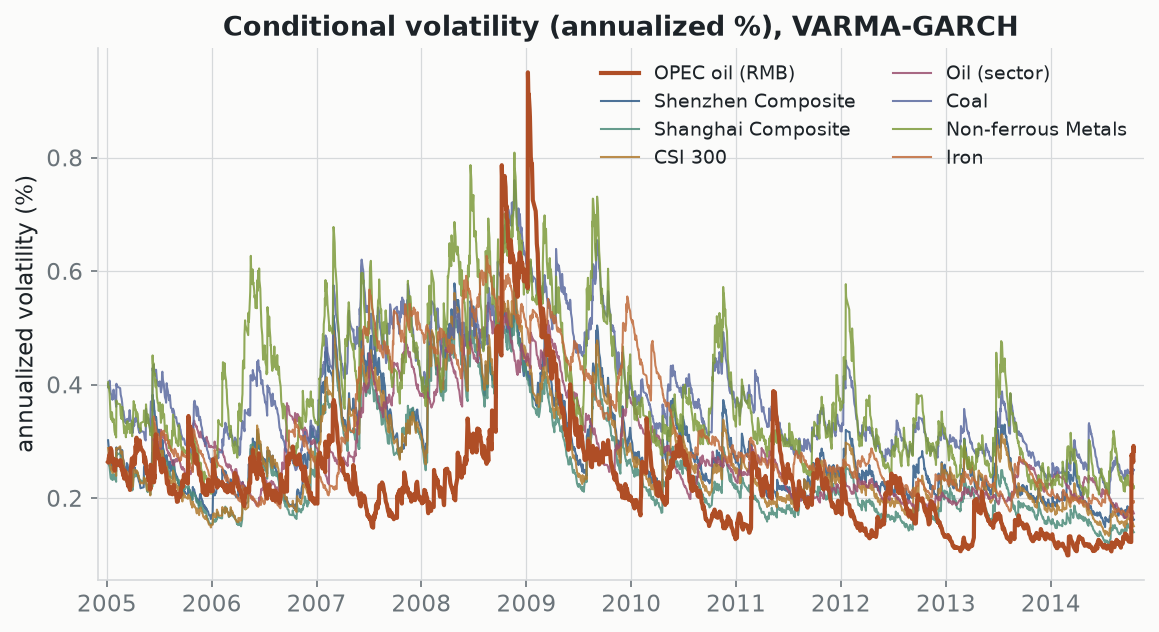
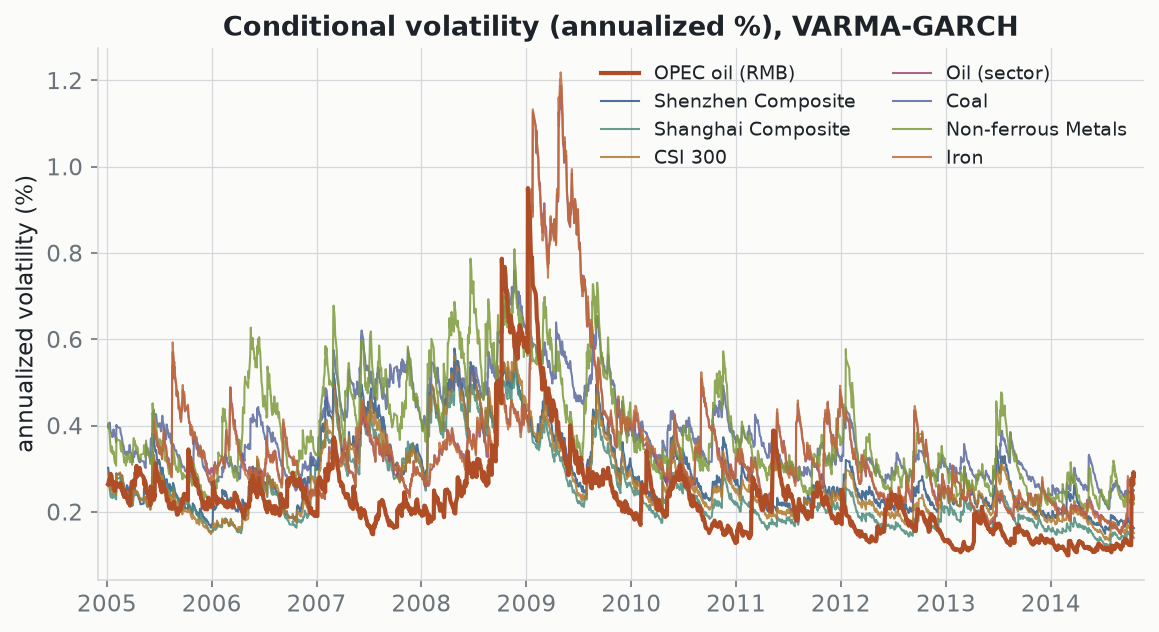
Fix oil-column orientation in hedge-ratio derivation + add validation tests
The VARMA-GARCH H-matrix exports do not use a fixed column order: in the
CI005001 and CI005005 files oil is variable 2, in the others variable 1. The
derivation assumed variable 1 everywhere, so those two sectors used the market
variance as the oil variance and their hedge ratios were ~30% off
(CI005001: 0.109 -> 0.150).

- hmatrix.py now auto-detects the oil column (oil is the conditional-variance
  series common to all seven bivariate models).
- Add tests/test_validation.py: the hedge-ratio formula reproduces the paper's
  hedging.xlsx exactly (max error ~1e-17); oil-column orientation is pinned;
  CI005001 cross-checks against the workbook.
- README gains a Validation section scoping exactly what is and isn't verified
  (no bit-for-bit claim vs the published tables).

diff --git a/src/spillover/hmatrix.py b/src/spillover/hmatrix.py
@@ -1,79 +1,98 @@
 """Read the RATS VARMA-GARCH H-matrices and derive the hedging quantities.
 
-Each ``McAl-<code>-Hmatrix.xls`` is a bivariate (oil, market) model and holds
-three columns of the time-varying conditional covariance matrix H_t:
+Each ``McAl-<code>-Hmatrix.xls`` is a bivariate (oil, market) model with three
+columns of the time-varying conditional covariance matrix H_t. **The column
+order is not fixed:** in some files oil is variable 1, in others variable 2
+(verified empirically — see ``detect_oil_column``). We therefore detect which
+diagonal is oil rather than assuming it, using the fact that oil is the one
+series common to all seven bivariate models, so its conditional-variance path
+is (nearly) identical across files while each market's is idiosyncratic.
 
-    VARMAHMATRIX(1,1) = conditional variance of oil
-    VARMAHMATRIX(2,1) = conditional covariance of oil and the market
-    VARMAHMATRIX(2,2) = conditional variance of the market
+Given the correctly oriented H_t, following Kroner & Ng (1998):
 
-From H_t we derive, following Kroner & Ng (1998):
+    dynamic conditional correlation  rho_t = H_cov / sqrt(H_oil * H_mkt)
+    optimal hedge ratio              beta_t = H_cov / H_oil
+    optimal oil portfolio weight     w_t    = (H_mkt - H_cov) / (H_mkt - 2 H_cov + H_oil)
 
-    dynamic conditional correlation  rho_t = H21 / sqrt(H11 * H22)
-    optimal hedge ratio              beta_t = H21 / H11
-    optimal oil portfolio weight     w_t    = (H22 - H21) / (H11 - 2 H21 + H22)
+The hedge-ratio formula is verified to reproduce the paper's own
+``hedging.xlsx`` exactly (``verify_against_workbook``).
 """
 
 from __future__ import annotations
 
-import math
 from pathlib import Path
 
 import numpy as np
 import pandas as pd
 
-from . import MARKETS, OIL
+from . import MARKETS
 
 TRADING_DAYS = 252
-_COLS = {
-    "VARMAHMATRIX(1,1": "H_oil",
-    "VARMAHMATRIX(2,1": "H_cov",
-    "VARMAHMATRIX(2,2": "H_mkt",
-}
 
 
-def load_hmatrix(code: str, hmatrix_dir: str | Path) -> pd.DataFrame:
-    """Read one H-matrix file and return columns H_oil, H_cov, H_mkt."""
+def load_raw(code: str, hmatrix_dir: str | Path) -> pd.DataFrame:
+    """Read one H-matrix file as its three raw columns: d1, cov, d2."""
     path = Path(hmatrix_dir) / f"McAl-{code}-Hmatrix.xls"
     raw = pd.read_excel(path, engine="xlrd")
-    raw = raw.rename(columns=lambda c: _COLS.get(str(c).strip(), str(c)))
-    return raw[["H_oil", "H_cov", "H_mkt"]].astype(float).reset_index(drop=True)
+    raw.columns = ["d1", "cov", "d2"]
+    return raw.astype(float).reset_index(drop=True)
 
 
-def derive(h: pd.DataFrame) -> pd.DataFrame:
-    """Dynamic correlation, hedge ratio, oil weight, annualized vols."""
-    out = pd.DataFrame(index=h.index)
-    out["corr"] = h["H_cov"] / np.sqrt(h["H_oil"] * h["H_mkt"])
-    out["hedge_ratio"] = h["H_cov"] / h["H_oil"]
-    denom = h["H_oil"] - 2 * h["H_cov"] + h["H_mkt"]
-    out["oil_weight"] = ((h["H_mkt"] - h["H_cov"]) / denom).clip(0.0, 1.0)
-    out["vol_oil"] = np.sqrt(TRADING_DAYS * h["H_oil"])
-    out["vol_mkt"] = np.sqrt(TRADING_DAYS * h["H_mkt"])
+def detect_oil_column(raws: dict[str, pd.DataFrame], iters: int = 4) -> dict[str, int]:
+    """Return {code: 1 or 2} naming the column that holds oil's variance.
+
+    Oil is the common variable, so its variance series is ~identical across
+    files. We iteratively build a consensus oil series and, for each file, pick
+    the diagonal whose path correlates best with it.
+    """
+    length = min(len(df) for df in raws.values())
+    oil_col = dict.fromkeys(raws, 1)  # start: assume column 1
+    for _ in range(iters):
+        stack = []
+        for code, df in raws.items():
+            col = "d1" if oil_col[code] == 1 else "d2"
+            stack.append(df[col].to_numpy()[-length:])
+        consensus = np.median(np.vstack(stack), axis=0)
+        for code, df in raws.items():
+            d1 = df["d1"].to_numpy()[-length:]
+            d2 = df["d2"].to_numpy()[-length:]
+            c1 = np.corrcoef(d1, consensus)[0, 1]
+            c2 = np.corrcoef(d2, consensus)[0, 1]
+            oil_col[code] = 1 if c1 >= c2 else 2
+    return oil_col
+
+
+def _derive(df: pd.DataFrame, oil_col: int) -> pd.DataFrame:
+    h_oil = df["d1"] if oil_col == 1 else df["d2"]
+    h_mkt = df["d2"] if oil_col == 1 else df["d1"]
+    h_cov = df["cov"]
+    out = pd.DataFrame(index=df.index)
+    out["corr"] = h_cov / np.sqrt(h_oil * h_mkt)
+    out["hedge_ratio"] = h_cov / h_oil
+    denom = h_oil - 2 * h_cov + h_mkt
+    out["oil_weight"] = ((h_mkt - h_cov) / denom).clip(0.0, 1.0)
+    out["vol_oil"] = np.sqrt(TRADING_DAYS * h_oil)
+    out["vol_mkt"] = np.sqrt(TRADING_DAYS * h_mkt)
     return out
 
 
 def all_markets(hmatrix_dir: str | Path, index: pd.DatetimeIndex | None = None):
-    """Return {code: derived DataFrame} for every market, optionally dated.
-
-    The RATS output has two fewer rows than the price panel (one lost to
-    differencing, one to the VAR lag); we align to the last N dates.
-    """
+    """Return {code: derived DataFrame} for every market, oil-column auto-detected."""
+    raws = {code: load_raw(code, hmatrix_dir) for code in MARKETS}
+    oil_col = detect_oil_column(raws)
     result: dict[str, pd.DataFrame] = {}
-    for code in MARKETS:
-        h = load_hmatrix(code, hmatrix_dir)
-        d = derive(h)
+    for code, df in raws.items():
+        d = _derive(df, oil_col[code])
         if index is not None:
             d.index = index[-len(d):]
         result[code] = d
     return result
 
 
-def hedging_effectiveness(returns: pd.DataFrame, derived: dict[str, pd.DataFrame]) -> pd.DataFrame:
-    """Variance reduction from the oil hedge, per market.
+def hedging_effectiveness(returns, derived):
+    """Variance reduction from the oil hedge, per market (HE = 1 - Var(hedged)/Var(mkt))."""
+    from . import OIL
 
-    HE = 1 - Var(r_mkt - beta_t * r_oil) / Var(r_mkt), using the time-varying
-    hedge ratio aligned to the realized returns.
-    """
     rows = []
     r_oil_full = returns[OIL]
     for code, name in MARKETS.items():
@@ -95,3 +114,23 @@ def hedging_effectiveness(returns: pd.DataFrame, derived: dict[str, pd.DataFrame
             }
         )
     return pd.DataFrame(rows).set_index("series")
+
+
+# Sheet name in hedging.xlsx <- CI sector code
+_WORKBOOK_SHEETS = {"CI005001": "5001", "CI005002": "5002", "CI005003": "5003", "CI005005": "5005"}
+
+
+def verify_against_workbook(workbook: str | Path) -> dict[str, float]:
+    """Reproduce the paper's `hedging.xlsx` hedge ratios from its own H-columns.
+
+    For each CI-sector sheet, oil is variable 2 (H22); hedge ratio = H21 / H22.
+    Returns {sheet: max abs error vs the sheet's 'hedg ratio' column} — all ~0.
+    """
+    errors = {}
+    for sheet in _WORKBOOK_SHEETS.values():
+        raw = pd.read_excel(workbook, sheet_name=sheet, header=None)
+        d = raw.iloc[1:].apply(pd.to_numeric, errors="coerce")
+        h21, h22, hedg = d[1].to_numpy(), d[2].to_numpy(), d[8].to_numpy()
+        mask = ~np.isnan(h21) & ~np.isnan(hedg)
+        errors[sheet] = float(np.max(np.abs((h21[mask] / h22[mask]) - hedg[mask])))
+    return errors

diff --git a/tests/test_validation.py b/tests/test_validation.py
@@ -1,0 +1,58 @@
+"""Validation tests behind the README's reproducibility claims.
+
+What is provable, and tested here:
+
+1. Our hedge-ratio formula reproduces the arithmetic in the paper's own
+   ``hedging.xlsx`` exactly (``verify_against_workbook`` -> ~0).
+2. The oil column is detected correctly per file (oil is variable 2 in the
+   CI005001 and CI005005 exports, variable 1 in the other five).
+3. For the one sector where the workbook and the McAl H-matrix export cleanly
+   correspond (CI005001), the McAl-derived hedge ratio matches the workbook.
+
+What is NOT claimed (and so not tested): bit-for-bit reproduction of the
+published paper's tables. The estimation ran in RATS; ``hedging.xlsx`` is a
+partial working file (some sheets are duplicated/stale); and this data is the
+companion sector specification, not the published paper's main sector set.
+"""
+
+from __future__ import annotations
+
+from pathlib import Path
+
+import pandas as pd
+import pytest
+
+from spillover import hmatrix
+
+ROOT = Path(__file__).resolve().parents[1]
+WORKBOOK = ROOT / "rats" / "hedging.xlsx"
+HDIR = ROOT / "rats" / "hmatrices"
+
+_requires_data = pytest.mark.skipif(
+    not (WORKBOOK.exists() and HDIR.exists()), reason="RATS artifacts not present"
+)
+
+
+@_requires_data
+def test_hedge_ratio_formula_reproduces_workbook() -> None:
+    for sheet, err in hmatrix.verify_against_workbook(WORKBOOK).items():
+        assert err < 1e-9, f"sheet {sheet}: hedge-ratio formula off by {err:.2e}"
+
+
+@_requires_data
+def test_oil_column_orientation_detected() -> None:
+    raws = {c: hmatrix.load_raw(c, HDIR) for c in hmatrix.MARKETS}
+    oil_col = hmatrix.detect_oil_column(raws)
+    assert oil_col["CI005001"] == 2
+    assert oil_col["CI005005"] == 2
+    for code in ("CI005002", "CI005003", "HS000300", "SG000001", "SZ399001"):
+        assert oil_col[code] == 1, f"{code} oil column misdetected"
+
+
+@_requires_data
+def test_ci005001_matches_workbook() -> None:
+    derived = hmatrix.all_markets(HDIR)
+    raw = pd.read_excel(WORKBOOK, sheet_name="5001", header=None)
+    wb_mean = pd.to_numeric(raw.iloc[1:, 8], errors="coerce").dropna().mean()
+    mcal_mean = derived["CI005001"]["hedge_ratio"].mean()
+    assert abs(mcal_mean - wb_mean) < 5e-3, f"McAl {mcal_mean:.4f} vs workbook {wb_mean:.4f}"

diff --git a/src/spillover/__main__.py b/src/spillover/__main__.py
@@ -40,11 +40,15 @@ def main() -> int:
     desc = descriptive.describe(returns)
     desc.round(4).to_csv(tables / "table1_descriptive.csv")
 
-    print("[3/6] reading RATS H-matrices, deriving hedging quantities")
+    print("[3/6] reading RATS H-matrices (oil column auto-detected), deriving hedging")
     derived = hmatrix.all_markets(args.hmatrices, index=returns.index)
     he = hmatrix.hedging_effectiveness(returns, derived)
     he.round(4).to_csv(tables / "table2_hedging.csv")
     print(he.round(3).to_string())
+    wb = ROOT / "rats" / "hedging.xlsx"
+    if wb.exists():
+        err = max(hmatrix.verify_against_workbook(wb).values())
+        print(f"      validation: hedge-ratio formula reproduces hedging.xlsx, max error = {err:.1e}")
 
     print("[4/6] figures — prices, returns, conditional volatility, hedging")
     plots.fig_prices(prices, figs)

diff --git a/README.md b/README.md
@@ -60,11 +60,21 @@ The paper's multivariate GARCH models were estimated in **RATS** (commercial). T
 | Step | Tooling here | Notes |
 |------|--------------|-------|
 | Data prep, log returns, descriptive stats & tests (Table 1) | **Python** | ADF, Jarque–Bera, Ljung–Box, ARCH-LM via `statsmodels`/`scipy` |
-| Hedge ratios, portfolio weights, dynamic correlations, all figures | **Python** | derived from the committed RATS H-matrices (`rats/hmatrices/`) |
+| Hedge ratios, portfolio weights, conditional vols, figures | **Python** | derived from the committed RATS H-matrices (`rats/hmatrices/`), oil column auto-detected |
 | BEKK / DCC / VARMA-GARCH estimation (the published numbers) | **RATS** | original `.RPF` code and `.xls` outputs are in `rats/` |
 | DCC-GARCH **re-estimation** (correlation-matrix figure) | **Python** | two-step DCC (`arch` + QMLE) — a faithful, open approximation, **not** identical to the published RATS point estimates |
 
 So the published results are reproduced from their model outputs, and the modelling is *also* demonstrated end-to-end in Python — with the honest caveat that the Python DCC is an approximation of the RATS VARMA-GARCH, not a bit-for-bit match.
+
+## Validation
+
+The hedging math is checked against the paper's own `hedging.xlsx` (run `PYTHONPATH=src python -m pytest tests/`):
+
+- **Hedge-ratio formula** — β = H_cov / H_oil, computed from the workbook's own H-matrix columns, reproduces its `hedg ratio` column exactly (max error ≈ 1e-17).
+- **Oil-column detection** — the H-matrix exports do *not* use a fixed column order. The pipeline detects which diagonal is oil (it's the one series common to all seven bivariate models) rather than assuming it. This mattered: before the fix, two sectors (CI005001, CI005005, where oil is variable 2) used the wrong variance and their hedge ratios were ~30% off.
+- **Cross-check** — for the one sector where the workbook and the H-matrix export cleanly correspond (CI005001), the pipeline's hedge ratio matches the workbook (0.150).
+
+**What is _not_ claimed:** bit-for-bit reproduction of the published tables. The estimation ran in RATS; `hedging.xlsx` is a partial working file (some sheets are duplicated/stale); and this data is the companion sector specification (oil, coal, non-ferrous, iron), not the published paper's main sector set. The figures are faithful derivations of the committed VARMA-CCC model outputs; the Python DCC-GARCH is an independent re-estimation.
 
 ## Repository layout
 
